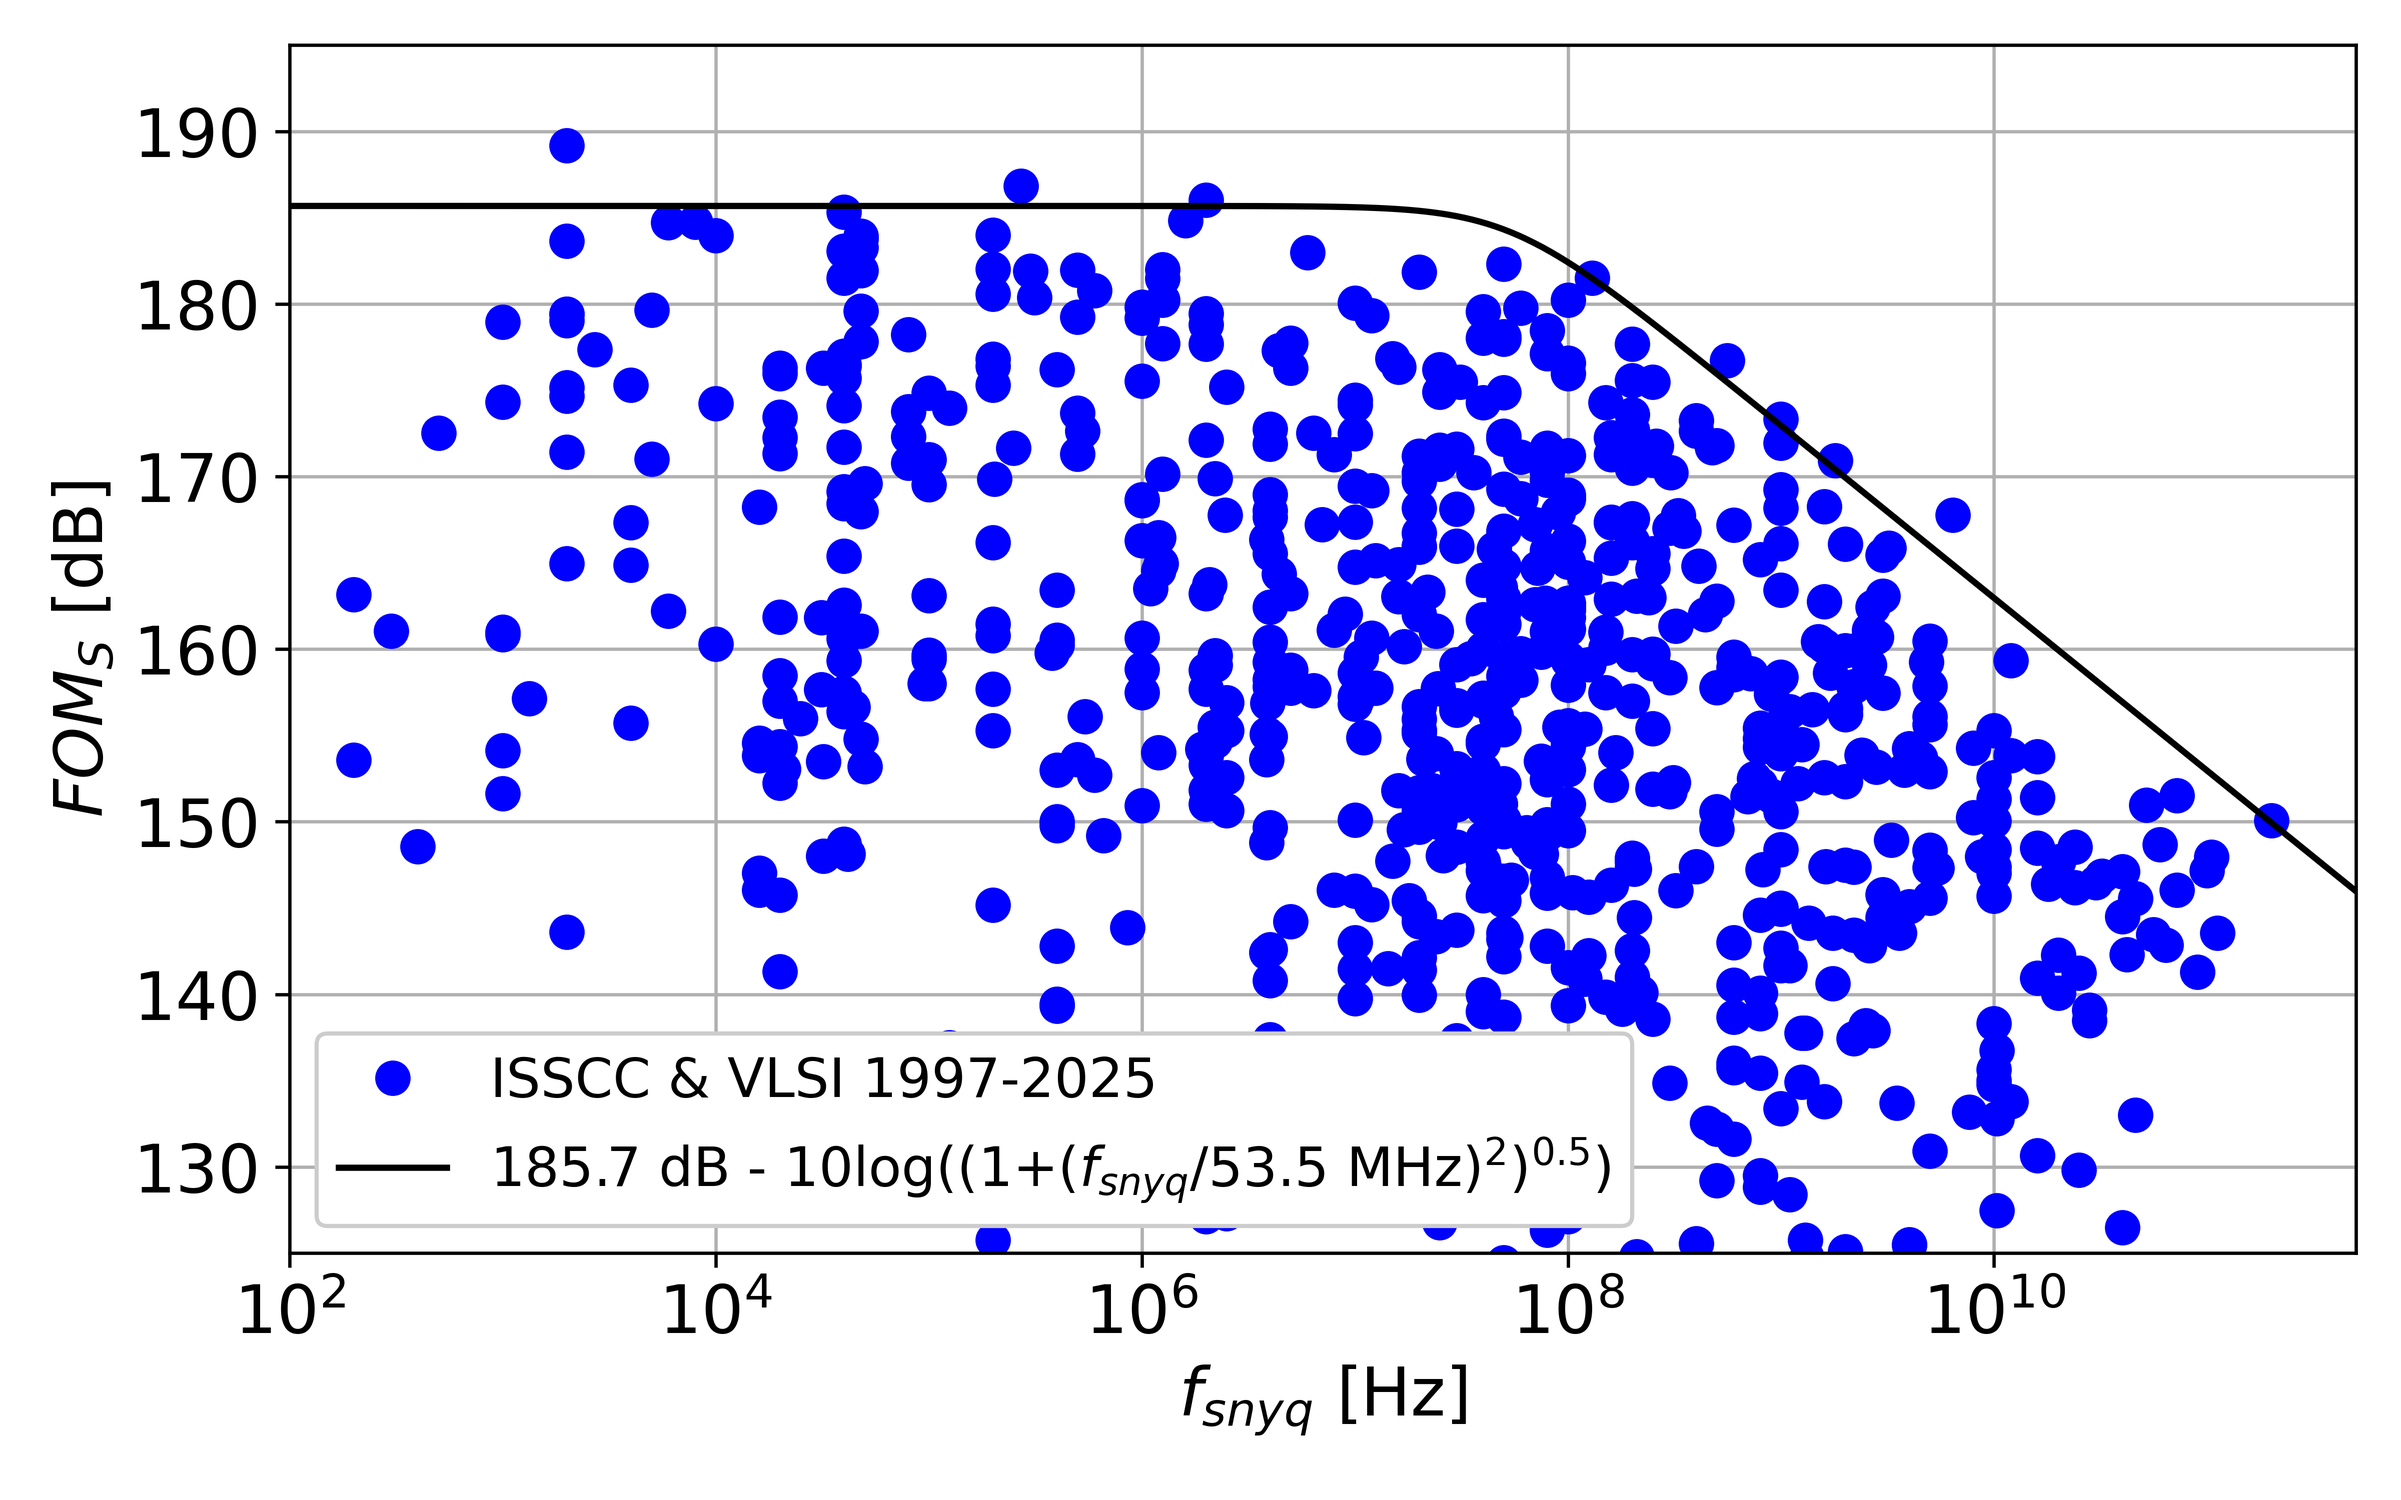
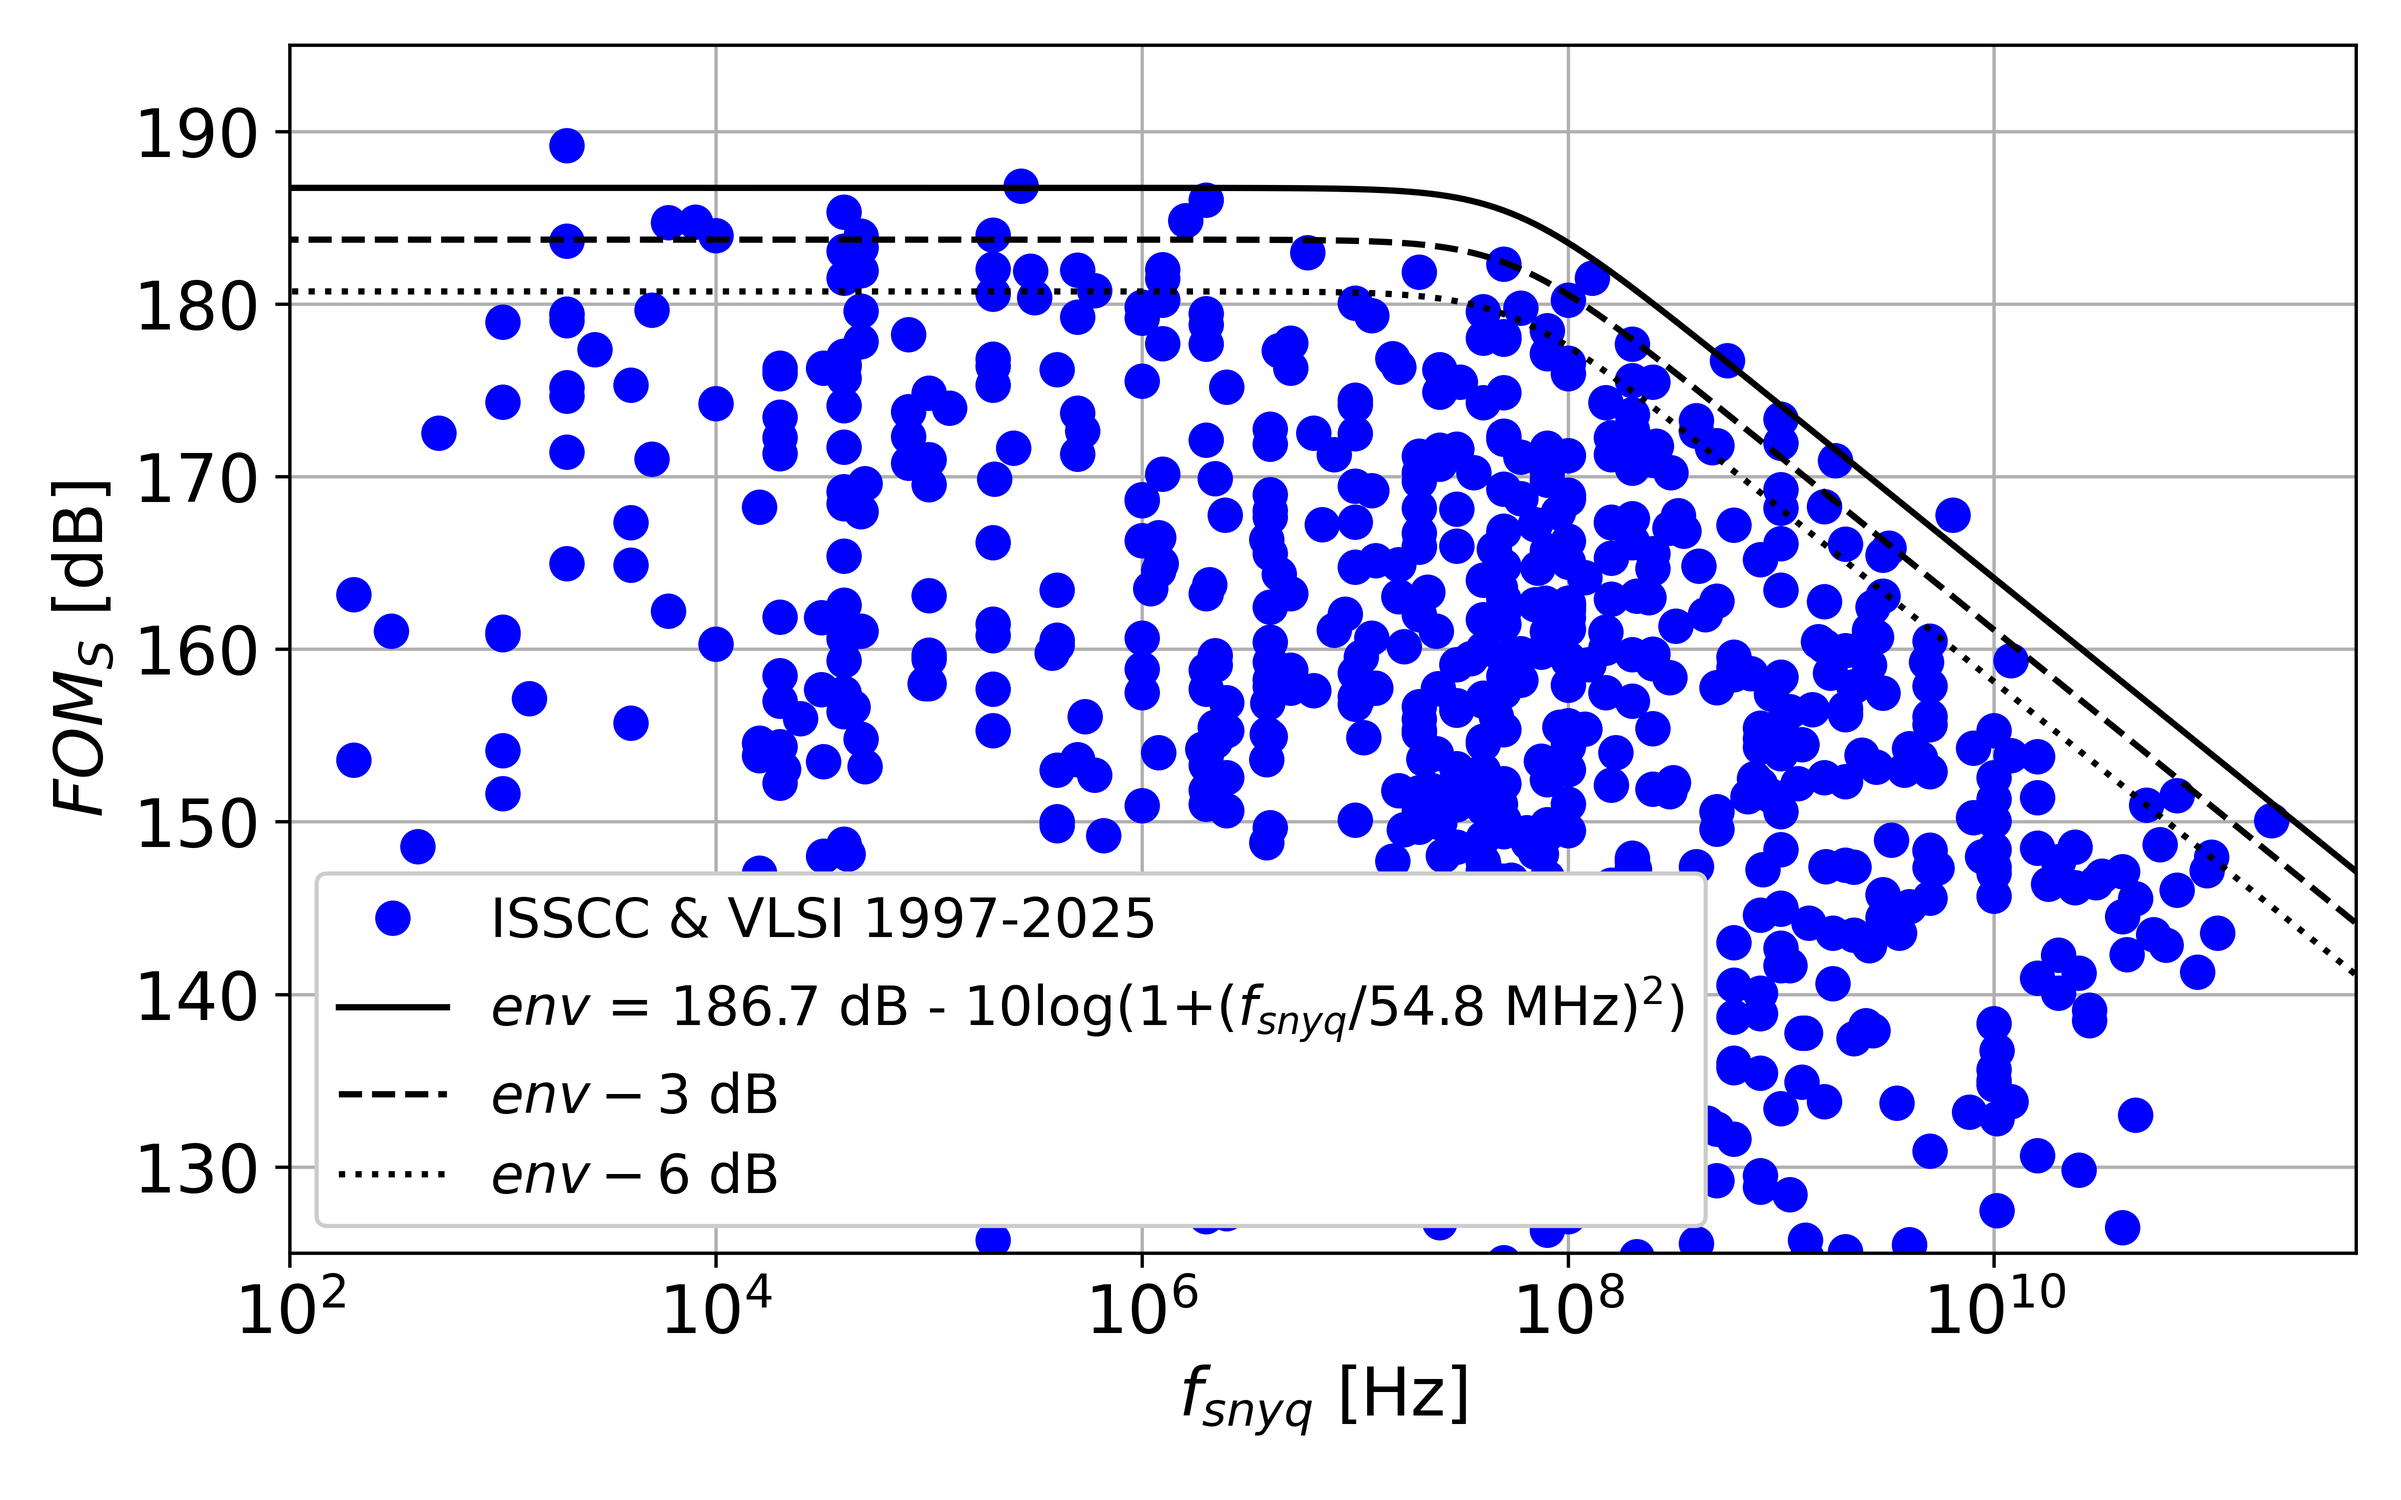
Updated FOM plot

Changed region(s): [[0.125, 0.558, 0.7188, 0.806], [0.125, 0.124, 0.6875, 0.217], [0.6875, 0.217, 1.0, 0.589]]

diff --git a/plots/README.md b/plots/README.md
@@ -8,6 +8,11 @@ This directory provides some examples for plotting the ADC survey data. The Jupy
 
 <img src="aperture_plot.png" width="400" /> 
 
-**Figure of Merit (FOM<sub>S</sub>) plot**: TBW.
+**Figure of Merit plot**: The above energy plot is useful for assessing the minimum energy needed for an A/D conversion at a given SNDR. This neglects speed requirements and specifically the fact that ADCs with higher speed tend to have a lower energy efficiency. To illustrate this tradeoff in a single diagram, we either need a 3D plot (who likes 3D plots?) or a way to lump the relevant metrics into a figure of merit (FOM). Shown below is a plot of the SNDR-based Schreier FOM ($FOM_S=SNDR(dB)+10log(f_{snyq}/2/P)$) versus sampling rate. (Larger is better in this plot.) FOM<sub>S</sub> conforms with the asymptotic cost of 4x in power per 6 dB of SNDR increase, seen in the above energy plot. It also assumes that power scales linearly with conversion speed. The plot shows that this breaks down at some corner frequency (close to 100 MHz), beyond which the FOM drops by 10 dB per decade. This can be assimilated to a quadratic relationship between power and conversion speed in this high-speed region.
 
 <img src="foms_plot.png" width="400" /> 
+
+Using the envelope data of this plot, one can estimate the power dissipation of a state-of-the-art ADC for a given SNDR requirement and conversion speed. Try it out using this [calculator](https://murmann-group.github.io/adc_survey/).
+
+
+
